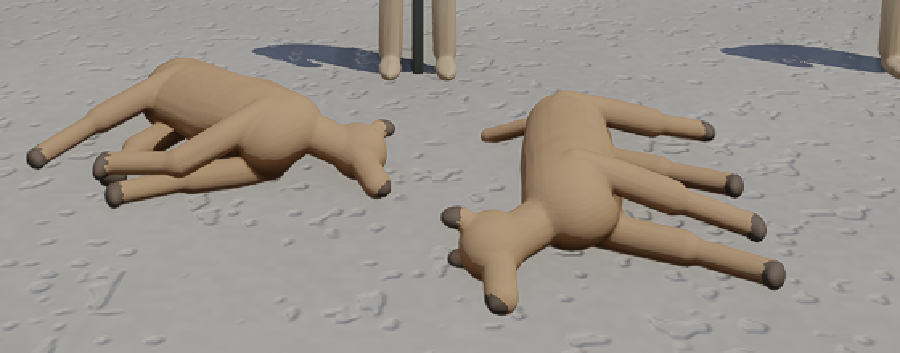
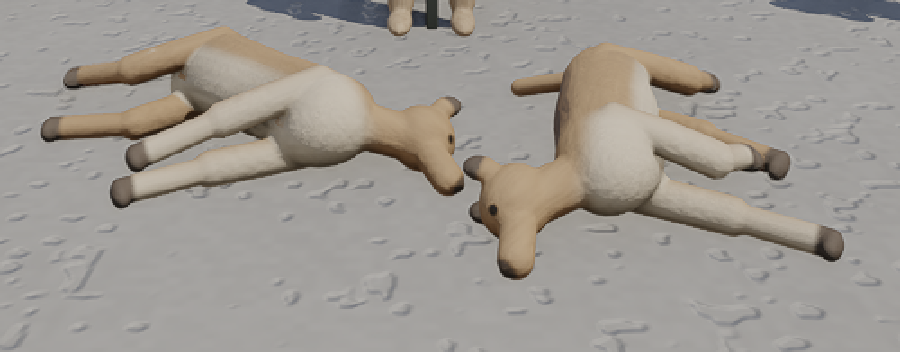
Show the painted creatures in the lab's page; accept D-048, the Khronos sample models for the labs
The creature images come from a687660's accepted run. D-048 takes the Khronos glTF sample
assets as the labs' reference models: kept out of git and fetched with their hashes, the
restricted ones (Sponza, DamagedHelmet, BrainStem, Duck) only on request and never in the
engine or a game.

diff --git a/docs/DECISIONS.md b/docs/DECISIONS.md
@@ -2348,3 +2348,96 @@ the material properties the artist gave are kept wherever the file has them.
   - `GpuMaterial` grows from 112 to 176 bytes.
 - **The creatures:** unwrapped and baked in Blender (`docs/demos/physics-lab.md`, "Their
   textures"). The procedural wood and fur of the first step are gone.
+
+## D-048 — Reference models from outside: the Khronos glTF sample assets ✅ (proposed and accepted 2026-10-04)
+
+Our own models are simple: the lab's vehicles and creatures are built from a few shapes in
+Blender. The owner asked for detailed models made by others (2026-10-04), for two reasons:
+renderings to compare with other engines', and loads to measure. Khronos publishes the glTF
+sample assets (<https://github.khronos.org/glTF-Assets/>). Each comes with a screenshot from
+its reference viewer, and most are CC0 or CC-BY 4.0. Licences and sizes below were read from
+the repository on 2026-10-04 and are checked again at download.
+
+**Proposed:**
+1. **Not in git.** `assets/external.toml` lists each model:
+   - name, URL at a pinned commit, licence, authors, size, SHA-256.
+
+   `tools/fetch-assets.sh` (bash and curl) downloads them into `assets/external/`, which git
+   ignores, and checks each hash. Each CC-BY model gets its `CREDITS.md` line in the commit
+   that lists it. Captures that need a missing model are skipped and say so; CI downloads
+   nothing.
+2. **A models scene** (`physics-lab --lab models`): each model on a plinth under the sky, a
+   capture per model from the angle of its Khronos screenshot, and the two shown side by side
+   in its doc page.
+3. **The importer catches up** where the set needs it:
+   - `.gltf` files with their buffers and images beside them (FlightHelmet, SciFiHelmet and
+     TextureTransformTest exist only in that form);
+   - alpha cut-outs (`MASK`), once a model needs them.
+
+**The first set** (CC0 or CC-BY 4.0, about 160 MB):
+
+| Model | Licence | Size | What it checks |
+|---|---|---|---|
+| TextureCoordinateTest | CC0 | 14 KB | UV orientation |
+| TextureTransformTest | CC0 | 31 KB (`.gltf`) | `KHR_texture_transform`, its rotation's sign included |
+| TextureSettingsTest | CC-BY 4.0 | 43 KB | wrapping modes, double-sided faces |
+| NormalTangentTest | CC0 or CC-BY 4.0 (the lists disagree) | 1.8 MB | our derivative tangent frame |
+| NormalTangentMirrorTest | CC-BY 4.0 | 1.6 MB | mirrored UVs |
+| MetalRoughSpheres | CC-BY 4.0 | 11 MB | metalness and roughness, textured |
+| Fox | CC0 or CC-BY 4.0 | 163 KB | a skinned animal with three clips |
+| CesiumMan | CC-BY 4.0 | 438 KB | a textured skinned figure |
+| WaterBottle | CC0 | 9.0 MB | a PBR object, metal and plastic |
+| Lantern | CC0 | 9.6 MB | wood and metal |
+| BoomBox | CC0 | 11 MB | emission |
+| Corset | CC0 | 13 MB | fabric |
+| AntiqueCamera | CC0 | 18 MB | many parts |
+| SciFiHelmet | CC0 | 30 MB (`.gltf`) | dense hard-surface detail |
+| FlightHelmet | CC0 | 53 MB (`.gltf`, 14 PNGs) | many materials, leather, wood, glass |
+
+**Reference only, never shipped** (the owner, 2026-10-04: "include them, just make sure we
+don't use them in the final engine game"). These models' licences restrict use, so they serve
+for tests and comparisons only:
+- **Khronos's Sponza** (about 20 MB, `.gltf` with JPEG textures): under the CryEngine Limited
+  License, not Creative Commons.
+- **DamagedHelmet** (3.8 MB): lists CC-BY-NC 4.0 beside CC-BY 4.0.
+- **BrainStem** (Poser EULA): a skinned figure with many joints.
+- **Duck** (SCEA Shared Source).
+
+How they are kept out of a release:
+- **The manifest marks them** `use = "reference-only"`; every other model is
+  `use = "shippable"`, under CC0 or CC-BY 4.0.
+- **Nothing that ships reads `assets/external/`.** Only the lab's models scene and the tests
+  load from there.
+- **A check enforces it:** `credits --check`, run by CI, fails if any path outside the lab,
+  tools and tests names `assets/external/` or a reference-only model.
+- **The release packaging** (when it exists) copies nothing from `assets/external/`.
+
+**Later:**
+- **A Beautiful Game** (CC-BY 4.0, 43 MB): its glass needs transmission.
+
+**Later, under their own approval:** heavy scenes to measure performance:
+- Intel's new Sponza and the Amazon Lumberyard Bistro (CC-BY 4.0 as published; hundreds of MB
+  to several GB; Bistro is FBX, converted in Blender);
+- a few rigged and animated characters (Quaternius, CC0) beside the creatures.
+
+**Questions for the owner:**
+1. **The set:** all fifteen shippable models and the four reference-only ones (about 185 MB),
+   or a smaller start? A smaller start would be the test models, Fox, CesiumMan, WaterBottle,
+   FlightHelmet and Sponza (about 100 MB).
+2. **The heavy scenes** (Intel's new Sponza, Bistro): a proposal of their own once the first
+   set renders?
+
+**The owner's answers (2026-10-04),** the proposal accepted:
+- **The restricted models are included,** as reference only and never in the final engine or
+  a game (above).
+- **External models are for the labs only:** the physics lab's models scene and the tests
+  load them; no other demo and nothing that ships.
+- **The set:** the smaller start first. All of it, about 185 MB, may be downloaded.
+- **The heavy scenes** (Intel's Sponza, Bistro): a proposal of their own once the first set
+  renders.
+- **The restricted models stay out of git,** as every external model does. The fetch script
+  leaves them out unless asked (`--reference-only`), and the lab's docs say how to download
+  them for anyone who wants to test with them.
+
+**A first step once answered:** the manifest and the fetch script, the `.gltf` reader, the
+models scene, and the test models' captures beside their Khronos screenshots.
